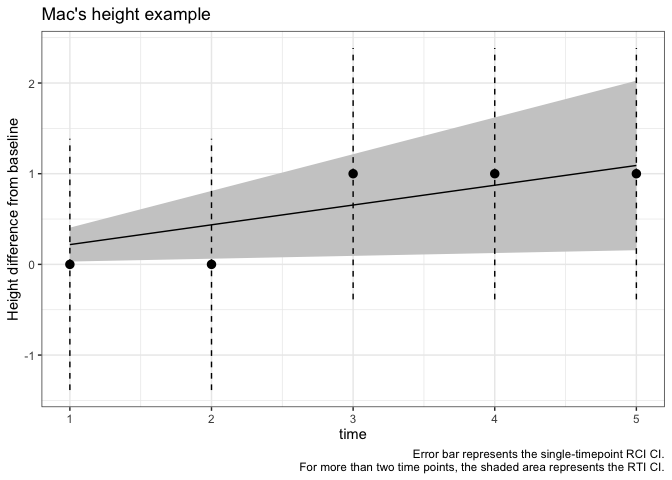
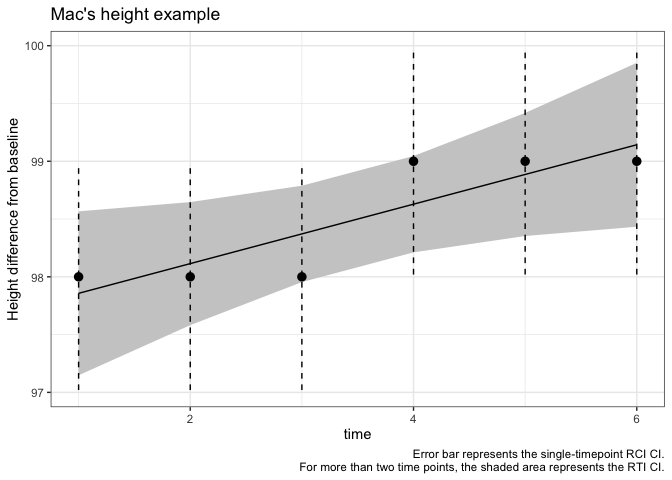
Bug fix to RTI and RCI treatment of error terms.

diff --git a/README.md b/README.md
@@ -172,7 +172,7 @@ print(mac_rti)
 #> [1] NA
 #> 
 #> $RTI
-#> [1] 2.28831
+#> [1] 2.151411
 #> 
 #> $pd.RCI
 #> numeric(0)
@@ -212,18 +212,23 @@ print(mac_rti)
 #> 
 #> $rmaObj
 #> 
-#> Fixed-Effects with Moderators Model (k = 5)
+#> Fixed-Effects with Moderators Model (k = 6)
 #> 
 #> I^2 (residual heterogeneity / unaccounted variability): 0.00%
-#> H^2 (unaccounted variability / sampling variability):   0.19
+#> H^2 (unaccounted variability / sampling variability):   0.34
+#> R^2 (amount of heterogeneity accounted for):            71.43%
 #> 
 #> Test for Residual Heterogeneity:
-#> QE(df = 4) = 0.7636, p-val = 0.9433
+#> QE(df = 4) = 1.3714, p-val = 0.8491
+#> 
+#> Test of Moderators (coefficient 2):
+#> QM(df = 1) = 4.6286, p-val = 0.0314
 #> 
 #> Model Results:
 #> 
-#>              estimate      se    zval    pval   ci.lb   ci.ub    
-#> time_linear    0.2182  0.0953  2.2883  0.0221  0.0313  0.4051  * 
+#>              estimate      se      zval    pval    ci.lb    ci.ub      
+#> intrcpt       97.6000  0.4655  209.6784  <.0001  96.6877  98.5123  *** 
+#> time_linear    0.2571  0.1195    2.1514  0.0314   0.0229   0.4914    * 
 #> 
 #> ---
 #> Signif. codes:  0 '***' 0.001 '**' 0.01 '*' 0.05 '.' 0.1 ' ' 1
@@ -257,7 +262,7 @@ summary(mac_rti)
 #> 
 #> Reliable Trend Analysis:
 #> 
-#> This sequence of 5 values has a Reliable Increase using the RTI.
+#> This sequence of 6 values has a Reliable Increase using the RTI.
 #> A pre-post analysis would have an Unspecified difference using the RCI.
 ```
 
@@ -269,16 +274,16 @@ To see the details:
 ``` r
 print(mac_rti)
 #> $RCI
-#> [1] 1.414214
+#> [1] 1.414213
 #> 
 #> $RTI
-#> [1] 2.28831
+#> [1] 2.151411
 #> 
 #> $pd.RCI
 #> [1] 0.9213504
 #> 
 #> $pd.RTI
-#> [1] 0.9889403
+#> [1] 0.9842781
 #> 
 #> $category.RTI
 #> [1] "Reliable Increase"
@@ -293,13 +298,13 @@ print(mac_rti)
 #> [1] "Increase"
 #> 
 #> $values
-#> [1] 0 0 1 1 1
+#> [1] 98 98 98 99 99 99
 #> 
 #> $values.prepost
-#> [1] 0 1
+#> [1] 98 99
 #> 
 #> $error_var
-#> [1] 0.5
+#> [1] 0.25
 #> 
 #> $cutpoint
 #> [1] 1.96
@@ -308,22 +313,27 @@ print(mac_rti)
 #> [1] "obs_score"
 #> 
 #> $scale_RCI
-#> [1] 1.385929
+#> [1] 0.9800001
 #> 
 #> $rmaObj
 #> 
-#> Fixed-Effects with Moderators Model (k = 5)
+#> Fixed-Effects with Moderators Model (k = 6)
 #> 
 #> I^2 (residual heterogeneity / unaccounted variability): 0.00%
-#> H^2 (unaccounted variability / sampling variability):   0.19
+#> H^2 (unaccounted variability / sampling variability):   0.34
+#> R^2 (amount of heterogeneity accounted for):            71.43%
 #> 
 #> Test for Residual Heterogeneity:
-#> QE(df = 4) = 0.7636, p-val = 0.9433
+#> QE(df = 4) = 1.3714, p-val = 0.8491
+#> 
+#> Test of Moderators (coefficient 2):
+#> QM(df = 1) = 4.6286, p-val = 0.0314
 #> 
 #> Model Results:
 #> 
-#>              estimate      se    zval    pval   ci.lb   ci.ub    
-#> time_linear    0.2182  0.0953  2.2883  0.0221  0.0313  0.4051  * 
+#>              estimate      se      zval    pval    ci.lb    ci.ub      
+#> intrcpt       97.6000  0.4655  209.6784  <.0001  96.6877  98.5123  *** 
+#> time_linear    0.2571  0.1195    2.1514  0.0314   0.0229   0.4914    * 
 #> 
 #> ---
 #> Signif. codes:  0 '***' 0.001 '**' 0.01 '*' 0.05 '.' 0.1 ' ' 1
@@ -348,9 +358,9 @@ forest_to_reg_plot(mac_rti$rmaObj,
 
 <img src="man/figures/README-unnamed-chunk-10-1.png" width="100%" />
 
-Notice that the trend line is going up, and the 95% CI for the trend
-does not include a flat line. Therefore the RTI suggests zero change is
-unlikely.
+Notice that the trend line is going up, and the 95% CI for the RTI
+(shaded region) is more precise than the 95% CI for individual
+observations (error bars), which is what the RCI on its own does.
 
 ## Analysis of complete data sets
 
